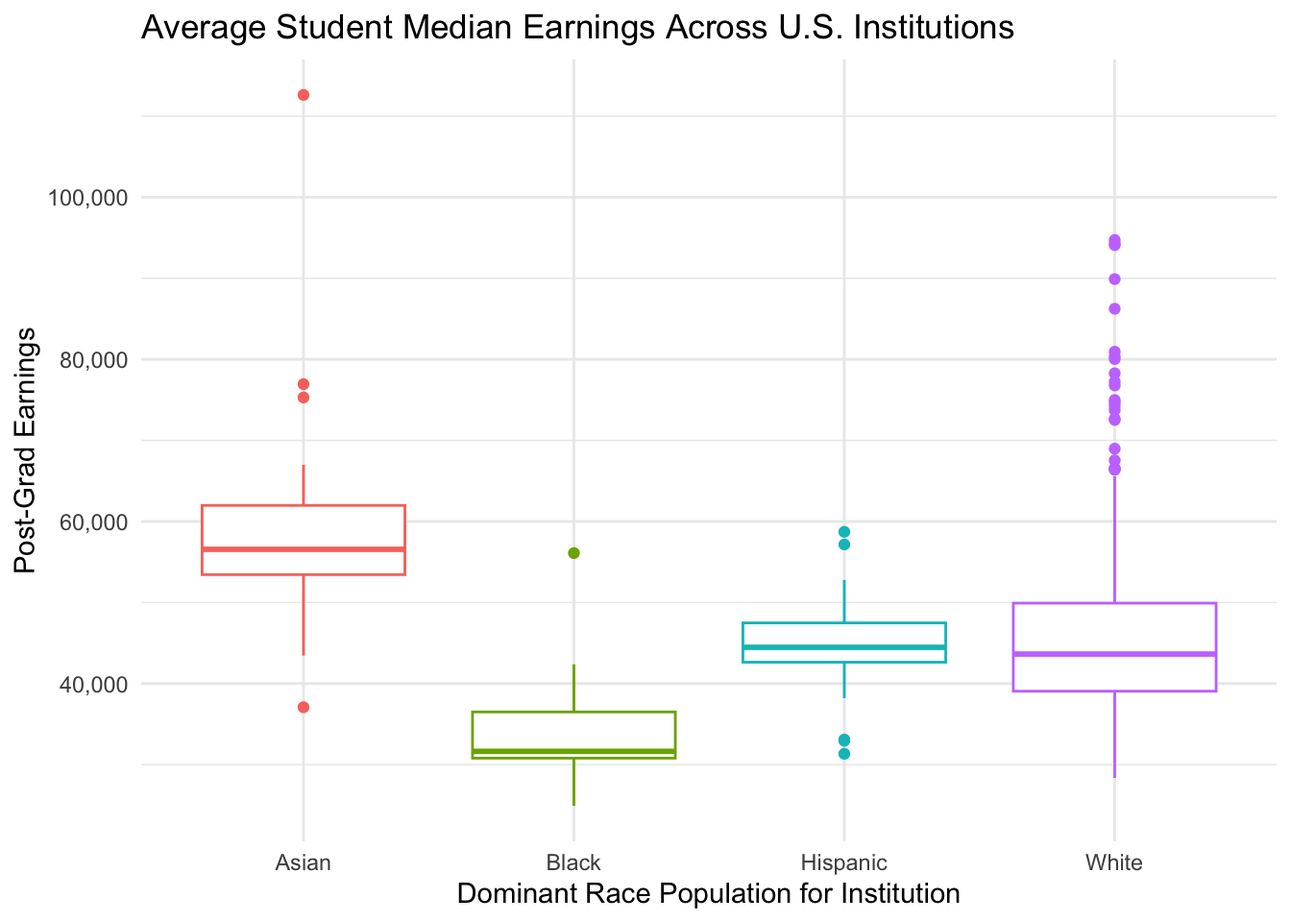
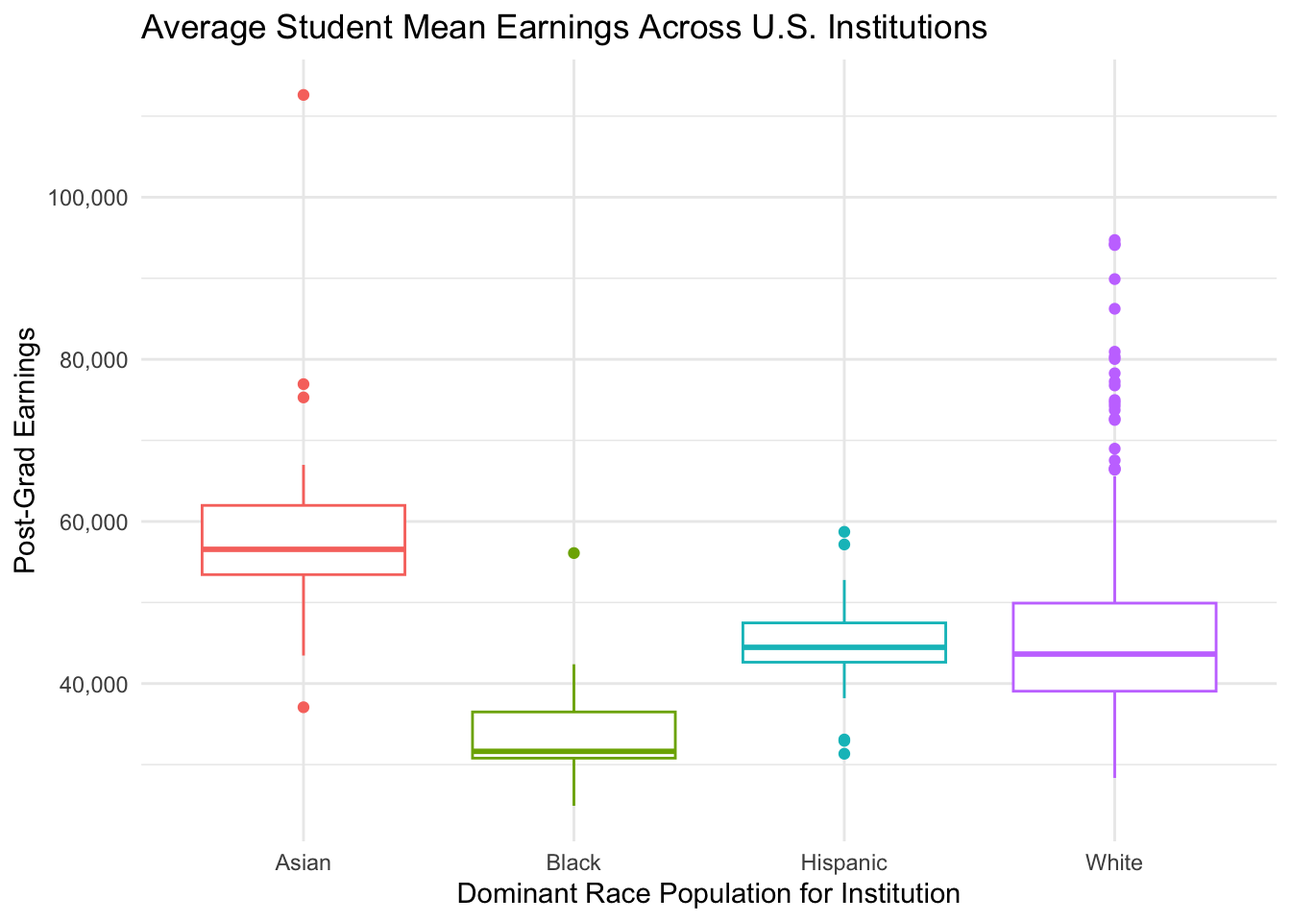
Built site for gh-pages

Changed region(s): [[0.3438, 0.0, 0.7812, 0.0625]]

diff --git a/big_picture.html b/big_picture.html
@@ -127,22 +127,14 @@ ul.task-list li input[type="checkbox"] {
    
   <ul>
   <li><a href="#introduction" id="toc-introduction" class="nav-link active" data-scroll-target="#introduction">Introduction</a></li>
-  <li><a href="#getting-started-does-racial-disparity-even-exist" id="toc-getting-started-does-racial-disparity-even-exist" class="nav-link" data-scroll-target="#getting-started-does-racial-disparity-even-exist">Getting Started: Does Racial Disparity Even Exist?</a></li>
+  <li><a href="#so-whats-the-big-deal-does-racial-disparity-even-exist" id="toc-so-whats-the-big-deal-does-racial-disparity-even-exist" class="nav-link" data-scroll-target="#so-whats-the-big-deal-does-racial-disparity-even-exist">So What’s the Big Deal: Does Racial Disparity Even Exist?</a></li>
   <li><a href="#thesis-statement" id="toc-thesis-statement" class="nav-link" data-scroll-target="#thesis-statement">Thesis Statement</a>
   <ul class="collapse">
-  <li><a href="#i.-socioeconomically-diverse-institutions-have-lower-median-earnings" id="toc-i.-socioeconomically-diverse-institutions-have-lower-median-earnings" class="nav-link" data-scroll-target="#i.-socioeconomically-diverse-institutions-have-lower-median-earnings">I. Socioeconomically Diverse Institutions Have Lower Median Earnings</a></li>
+  <li><a href="#i.-socioeconomically-diverse-institutions-have-lower-mean-earnings" id="toc-i.-socioeconomically-diverse-institutions-have-lower-mean-earnings" class="nav-link" data-scroll-target="#i.-socioeconomically-diverse-institutions-have-lower-mean-earnings">I. Socioeconomically Diverse Institutions Have Lower Mean Earnings</a></li>
   <li><a href="#ii.-institutions-with-majority-minority-student-populations-have-lower-post-grad-earnings" id="toc-ii.-institutions-with-majority-minority-student-populations-have-lower-post-grad-earnings" class="nav-link" data-scroll-target="#ii.-institutions-with-majority-minority-student-populations-have-lower-post-grad-earnings">II. Institutions with Majority-Minority Student Populations Have Lower Post-Grad Earnings</a></li>
   </ul></li>
-  <li><a href="#shinylive-interactive-map" id="toc-shinylive-interactive-map" class="nav-link" data-scroll-target="#shinylive-interactive-map">ShinyLive Interactive map</a></li>
-  <li><a href="#logic-behind-the-earnings-map" id="toc-logic-behind-the-earnings-map" class="nav-link" data-scroll-target="#logic-behind-the-earnings-map">Logic behind the earnings map:</a></li>
-  <li><a href="#key-insights-of-the-map" id="toc-key-insights-of-the-map" class="nav-link" data-scroll-target="#key-insights-of-the-map">Key insights of the map</a></li>
+  <li><a href="#post-college-earnings-across-the-united-states" id="toc-post-college-earnings-across-the-united-states" class="nav-link" data-scroll-target="#post-college-earnings-across-the-united-states">Post-College Earnings Across the United States</a></li>
   <li><a href="#conclusion-unveiling-disparity-in-higher-education-metrics" id="toc-conclusion-unveiling-disparity-in-higher-education-metrics" class="nav-link" data-scroll-target="#conclusion-unveiling-disparity-in-higher-education-metrics">Conclusion: Unveiling Disparity in Higher Education Metrics</a></li>
-  <li><a href="#rubric-on-this-page" id="toc-rubric-on-this-page" class="nav-link" data-scroll-target="#rubric-on-this-page">Rubric: On this page</a></li>
-  <li><a href="#rubric-other-components" id="toc-rubric-other-components" class="nav-link" data-scroll-target="#rubric-other-components">Rubric: Other components</a>
-  <ul class="collapse">
-  <li><a href="#video-recording" id="toc-video-recording" class="nav-link" data-scroll-target="#video-recording">Video Recording</a></li>
-  <li><a href="#rest-of-the-site" id="toc-rest-of-the-site" class="nav-link" data-scroll-target="#rest-of-the-site">Rest of the Site</a></li>
-  </ul></li>
   </ul>
 </nav>
     </div>
@@ -185,12 +177,12 @@ ul.task-list li input[type="checkbox"] {
 <p><strong>THE AMERICAN DREAM</strong>: the shiny ideal that America is the land of opportunity and social mobility, and every person, regardless of their race, gender, and socioeconomic status, has the opportunity to climb the social ladder and succeed with enough hard work and determination. Perpetuating the idea of a colorblind society, perhaps any skew in data - certain racial groups having higher incarceration rates or higher poverty levels - can simply be attributed to just that: <em>they didn’t work hard enough</em>. They were given an opportunity for social mobility and failed to seize it. We must ask ourselves: Can anyone who works hard become successful? Does the American Dream even exist, or was it never real to begin with?</p>
 <section id="why-is-analyzing-higher-education-data-important" class="level4">
 <h4 class="anchored" data-anchor-id="why-is-analyzing-higher-education-data-important">Why is Analyzing Higher Education Data Important?</h4>
-<p>Analyzing higher education data provides valuable insight into a population of students who have opted to pursue higher education, identifying patterns that inform if there exists a fundamental difference in later income and social mobility and status based upon characteristics such as their race and socioeconomic status. This data can further inform if there perhaps lie varying degrees of difficulty to succeed financially for certain groups over other groups, leading back to the question: Does the American Dream in higher education exist?</p>
+<p>Analyzing higher education data provides valuable insight into a population of students who have opted to pursue higher education, identifying patterns that inform if there exists a fundamental difference in income and social status based upon student characteristics, such as race and pre-college income bracket. This data can further inform if there perhaps lie varying degrees of difficulty to succeed financially for certain groups over other groups, leading back to the question: Does the American Dream in higher education exist?</p>
 <p><em>Note: “Difficulty” itself is a subjective term, as is determining “working hard” as a quantitative measure. The following analysis does not serve to quantitatively define these terms, but does observe that students pursuing a higher degree have put in a baseline level of hard work to which questions arise over if this serves as a predictor to future income/socioeconomic status level.</em></p>
 </section>
 </section>
-<section id="getting-started-does-racial-disparity-even-exist" class="level2">
-<h2 class="anchored" data-anchor-id="getting-started-does-racial-disparity-even-exist">Getting Started: Does Racial Disparity Even Exist?</h2>
+<section id="so-whats-the-big-deal-does-racial-disparity-even-exist" class="level2">
+<h2 class="anchored" data-anchor-id="so-whats-the-big-deal-does-racial-disparity-even-exist">So What’s the Big Deal: Does Racial Disparity Even Exist?</h2>
 <div class="cell">
 <div class="cell-output-display">
 <div>
@@ -206,9 +198,9 @@ ul.task-list li input[type="checkbox"] {
 <section id="thesis-statement" class="level2">
 <h2 class="anchored" data-anchor-id="thesis-statement">Thesis Statement</h2>
 <p><em>The Earnings Gap: Analyzing Racial Disparity in Post-Graduation Wages Across U.S. Colleges</em></p>
-<p>Post-Graduation earnings across the U.S. colleges are correlated to student demographic factors, specifically socioeconomic status and race. In particular, students from lower income brackets have lower post-graduation earnings than students from high income brackets <em>(1)</em>. Further, Black and Hispanic students have lower post-graduation earnings than their White and Asian counterparts <em>(2)</em>.</p>
-<section id="i.-socioeconomically-diverse-institutions-have-lower-median-earnings" class="level3">
-<h3 class="anchored" data-anchor-id="i.-socioeconomically-diverse-institutions-have-lower-median-earnings">I. Socioeconomically Diverse Institutions Have Lower Median Earnings</h3>
+<p>Post-Graduation earnings across the U.S. colleges are correlated to student demographic factors, specifically socioeconomic status and race. In particular, students from lower income brackets have lower post-graduation earnings than students from high income brackets <em>(I)</em>. Further, Black and Hispanic students have lower post-graduation earnings than their White and Asian counterparts <em>(II)</em>.</p>
+<section id="i.-socioeconomically-diverse-institutions-have-lower-mean-earnings" class="level3">
+<h3 class="anchored" data-anchor-id="i.-socioeconomically-diverse-institutions-have-lower-mean-earnings">I. Socioeconomically Diverse Institutions Have Lower Mean Earnings</h3>
 <section id="post-grad-earnings-based-on-the-percent-of-students-with-pell-grants" class="level4">
 <h4 class="anchored" data-anchor-id="post-grad-earnings-based-on-the-percent-of-students-with-pell-grants">Post Grad Earnings based on the Percent of Students with Pell Grants</h4>
 <div class="cell">
@@ -220,8 +212,8 @@ ul.task-list li input[type="checkbox"] {
 </div>
 </div>
 </div>
-<p><em>Percent Pell Grant and Socioeconomic diversity:</em> Defined in the data set as the share of degree/certificate-seeking undergraduate students who received Pell Grants in a given year. <strong>Pell Grants</strong> are awarded only to undergraduate students who display financial need, and unlike a loan, it does not have to be repaid. This serves as an important measure of the access an institution provides to low-income students, thereby an indicator of an institution’s socioeconomic diversity. Read more about Pell Grants <a href="https://studentaid.gov/understand-aid/types/grants/pell">here</a>.</p>
-<p>The bar graph conveys the following idea: Institutions who support more lower-income students, albeit more socioeconomically diverse student bodies, have lower post-graduation earnings. This provides evidence that student affluence level prior to college serves as predictor for post-grad earnings.</p>
+<p><em>Percent Pell Grant and Socioeconomic diversity:</em> Defined in the data set as the share of degree/certificate-seeking undergraduate students who received Pell Grants in a given year. <strong>Pell Grants</strong> are awarded only to undergraduate students who display significent financial need and, unlike a loan, does not have to be repaid. This serves as an important measure of the access an institution provides to low-income students, thereby an indicator of an institution’s socioeconomic diversity. Read more about Pell Grants <a href="https://studentaid.gov/understand-aid/types/grants/pell">here</a>.</p>
+<p>The bar graph conveys the following idea: Institutions who support more lower-income students, albeit more socioeconomically diverse student bodies, have lower post-graduation earnings. This provides evidence that student affluence level prior to college is related to post-grad earnings.</p>
 </section>
 </section>
 <section id="ii.-institutions-with-majority-minority-student-populations-have-lower-post-grad-earnings" class="level3">
@@ -237,20 +229,13 @@ ul.task-list li input[type="checkbox"] {
 </div>
 </div>
 </div>
-<p><em>Average Earnings After College:</em> Defined in the dataset as the mean earnings for students at each institution, each year starting 6 years after a student enrolls in college, up to 10 years after the student enrolls. Enrollment dates are estimated based on FAFSA self-reporting. This data analysis takes the mean of all mean earnings from 6 to 10 years to provide a centralized value for student earnings from 6-10 years after enrollment at each institution.</p>
-<p>The plot supports the following idea: There is a difference in post-grad earnings for schools based on their dominant race student population: Earnings Distribution:</p>
-<ul>
-<li><strong>Asian</strong>: The median post-grad earnings for institutions where Asians are the dominant population appear to be around 60,000. The interquartile range (IQR) spans from approximately 50,000 to 70,000, with a few outliers extending up to 100,000 and below 40,000.</li>
-<li><strong>Black</strong>: Institutions with a dominant Black population show the lowest median earnings, around 40,000. The IQR is quite narrow, suggesting less variability in earnings, with outliers extending slightly above 60,000 and below 20,000.</li>
-<li><strong>Hispanic</strong>: Median earnings for Hispanic-dominant institutions are around 50,000. The IQR is moderate, spanning from about 40,000 to 60,000, with fewer extreme outliers compared to other groups.</li>
-<li><strong>White</strong> Institutions with a dominant White population have a median earnings level similar to Asian-dominant institutions, around 60,000. The IQR is wider, indicating more variability in earnings, with several outliers extending above 100,000.</li>
-</ul>
-<p>The data suggests that there are significant disparities in post-graduate earnings based on the dominant race population of institutions. Institutions with dominant Asian or White populations tend to have higher median earnings compared to those with dominant Black or Hispanic populations.</p>
+<p><em>Average Earnings After College:</em> Defined in the dataset as the mean earnings for students at each institution, each year starting 6 years after a student enrolls in college, up to 10 years after the student enrolls. Enrollment dates are estimated based on FAFSA self-reporting. This data analysis takes the average of all mean earnings from 6 to 10 years to provide a centralized value for student earnings from 6-10 years after enrollment at each institution.</p>
+<p>The plot supports the following idea: There is a difference in post-grad earnings for schools based on their dominant race student population. Specifically, institutions with dominant Asian or White populations tend to have higher median earnings compared to those with dominant Black or Hispanic populations.</p>
 </section>
 </section>
 </section>
-<section id="shinylive-interactive-map" class="level2">
-<h2 class="anchored" data-anchor-id="shinylive-interactive-map">ShinyLive Interactive map</h2>
+<section id="post-college-earnings-across-the-united-states" class="level2">
+<h2 class="anchored" data-anchor-id="post-college-earnings-across-the-united-states">Post-College Earnings Across the United States</h2>
 <pre class="shinylive-r" data-engine="r"><code>#| '!! shinylive warning !!': |
 #|   shinylive does not work in self-contained HTML documents.
 #|   Please set `embed-resources: false` in your metadata.
@@ -313,10 +298,10 @@ earnings_map_data &lt;- left_join(us_map, state_earnings_summary, by = "region")
 
 # UI definition
 ui &lt;- fluidPage(
-  titlePanel("Interactive Average Earnings by Race Across States"),
+  titlePanel("Mean Earnings by Race Across States"),
   sidebarLayout(
     sidebarPanel(
-      helpText("Select a race to view its average earnings across U.S. states."),
+      helpText("Select a racial group to view their mean earnings across the United States"),
       selectInput(
         "race_variable",
         "Select Race to Display on the Map",
@@ -366,40 +351,39 @@ server &lt;- function(input, output, session) {
       )
   })
   
-  # Display hover information
-  output$hover_text &lt;- renderText({
-    hover &lt;- input$hover_info
-    if (is.null(hover)) return("Hover over a state to see its average earnings breakdown.")
-    
-    # Find the closest region to the mouse pointer
-    state_hovered &lt;- earnings_map_data %&gt;%
-      filter(
-        long &gt;= hover$x - 0.1 &amp; long &lt;= hover$x + 0.1,
-        lat &gt;= hover$y - 0.1 &amp; lat &lt;= hover$y + 0.1
-      ) %&gt;%
-      distinct(region, Avg_Earn_White, Avg_Earn_Black, Avg_Earn_Hispanic, Avg_Earn_Asian) %&gt;%
-      head(1)
-    
-    if (nrow(state_hovered) == 0) return("Hover over a state to see its average earnings breakdown.")
-    
-    state_info &lt;- state_hovered[1, ]
-    
-    paste0(
-      "State: ", tools::toTitleCase(state_info$region), "\n",
-      "Avg Earnings - White: $", formatC(state_info$Avg_Earn_White, format = "f", big.mark = ",", digits = 0), "\n",
-      "Avg Earnings - Black: $", formatC(state_info$Avg_Earn_Black, format = "f", big.mark = ",", digits = 0), "\n",
-      "Avg Earnings - Hispanic: $", formatC(state_info$Avg_Earn_Hispanic, format = "f", big.mark = ",", digits = 0), "\n",
-      "Avg Earnings - Asian: $", formatC(state_info$Avg_Earn_Asian, format = "f", big.mark = ",", digits = 0)
-    )
-  })
+  # # Display hover information
+  # output$hover_text &lt;- renderText({
+  #   hover &lt;- input$hover_info
+  #   if (is.null(hover)) return("Hover over a state to see its average earnings breakdown.")
+  #   
+  #   # Find the closest region to the mouse pointer
+  #   state_hovered &lt;- earnings_map_data %&gt;%
+  #     filter(
+  #       long &gt;= hover$x - 0.1 &amp; long &lt;= hover$x + 0.1,
+  #       lat &gt;= hover$y - 0.1 &amp; lat &lt;= hover$y + 0.1
+  #     ) %&gt;%
+  #     distinct(region, Avg_Earn_White, Avg_Earn_Black, Avg_Earn_Hispanic, Avg_Earn_Asian) %&gt;%
+  #     head(1)
+  #   
+  #   if (nrow(state_hovered) == 0) return("Hover over a state to see its average earnings breakdown.")
+  #   
+  #   state_info &lt;- state_hovered[1, ]
+  #   
+  #   paste0(
+  #     "State: ", tools::toTitleCase(state_info$region), "\n",
+  #     "Avg Earnings - White: $", formatC(state_info$Avg_Earn_White, format = "f", big.mark = ",", digits = 0), "\n",
+  #     "Avg Earnings - Black: $", formatC(state_info$Avg_Earn_Black, format = "f", big.mark = ",", digits = 0), "\n",
+  #     "Avg Earnings - Hispanic: $", formatC(state_info$Avg_Earn_Hispanic, format = "f", big.mark = ",", digits = 0), "\n",
+  #     "Avg Earnings - Asian: $", formatC(state_info$Avg_Earn_Asian, format = "f", big.mark = ",", digits = 0)
+  #  )
+  #})
 }
 
 # Run the application
 shinyApp(ui = ui, server = server)</code></pre>
-</section>
-<section id="logic-behind-the-earnings-map" class="level2">
-<h2 class="anchored" data-anchor-id="logic-behind-the-earnings-map">Logic behind the earnings map:</h2>
-<p>The dataset education_cohort_data_cleaned.rds contains:</p>
+<section id="logic-behind-the-earnings-map" class="level4">
+<h4 class="anchored" data-anchor-id="logic-behind-the-earnings-map">Logic behind the Earnings Map</h4>
+<p>The dataset <code>education_cohort_data_cleaned.rds</code> contains:</p>
 <pre><code>•   Population Data (Pop): Total number of students at an institution.
 •   Racial Composition: Proportion of students from different races, such as:
 •   Perc_Undergrad_White
@@ -407,69 +391,37 @@ shinyApp(ui = ui, server = server)</code></pre>
 •   Perc_Undergrad_Hispanic
 •   Perc_Undergrad_Asian
 •   Perc_Two_Or_More_Races
-•   Average Earnings (Avg_Mean_earning): The average income for students after graduation of the school</code></pre>
-<p>The dataset aggregates data for different institutions across U.S. states.</p>
-<p>To calculate the earnings for each race, I used weighted averages:</p>
+•   Average Earnings (Avg_Mean_earning): The mean income for students 6-10 years after enrollment at the institution</code></pre>
+<p>Earnings for each race were calculated using weighted averages:</p>
 <p>Weighted Earnings for Race} = {Population} * {Proportion of Race} * {Average Earnings}</p>
-<p>The next step was to summarize the data at the state level:</p>
-<pre><code>1.  Sum the Weighted Earnings for each race.
-2.  Sum the Weighted Population for each race.
-3.  Compute the Average Earnings for each race in a state:</code></pre>
-<p>{Average Earnings} = {Sum of Weighted Earnings} / {Sum of Weighted Population}</p>
+<p>Data were summarized at the state level:</p>
+<pre><code>1. Sum the Weighted Earnings for each race.
+2. Sum the Weighted Population for each race.
+3. Compute the Average Earnings for each race in a state: {Average Earnings} = {Sum of Weighted Earnings} / {Sum of Weighted Population}</code></pre>
 </section>
-<section id="key-insights-of-the-map" class="level2">
-<h2 class="anchored" data-anchor-id="key-insights-of-the-map">Key insights of the map</h2>
-<pre><code>1.  Racial Disparities Exist:
-•   White and Asian graduates generally earn more on average compared to Black and Hispanic graduates.
-•   This suggests systemic disparities in earnings that may reflect broader socioeconomic and racial inequities.
-2.  Geographic Patterns:
-•   Earnings vary significantly across U.S. regions:
-•   States in the Northeast and West Coast generally have higher earnings.
-•   The South and parts of the Midwest consistently show lower earnings across all races.</code></pre>
+<section id="key-insights" class="level4">
+<h4 class="anchored" data-anchor-id="key-insights">Key Insights</h4>
+<ol type="1">
+<li>Racial Disparity in Mean Earnings:</li>
+</ol>
+<ul>
+<li>White and Asian students earn higher post-college wages, on average, compared to their Black and Hispanic counterparts</li>
+<li>This suggests that there exists racial disparity in post-college earnings</li>
+</ul>
+<ol start="2" type="1">
+<li>Geographic Patterns:</li>
+</ol>
+<ul>
+<li>Earnings vary significantly across U.S. regions</li>
+<li>States in the Northeast and West Coast generally have higher earnings, while the South and parts of the Midwest consistently show lower earnings across all races</li>
+</ul>
+</section>
 </section>
 <section id="conclusion-unveiling-disparity-in-higher-education-metrics" class="level2">
 <h2 class="anchored" data-anchor-id="conclusion-unveiling-disparity-in-higher-education-metrics">Conclusion: Unveiling Disparity in Higher Education Metrics</h2>
 <p>The data depicted in the graphs and map reveal a clear pattern: the mean earnings post-graduation vary significantly by both racial demographics and socioeconomic status. And although it cannot be conclusively drawn that the American Dream imposes a false idealistic reality that hard work can automatically be translated to success for any American irregardless of race and socioeconomic status, it is important to note this discrepancy: <strong>certain racial groups and people of lower income brackets have lower mean earnings after enrollment in higher education.</strong> Simply “buying into” the American Dream can be a comforting notion, but it can also perpetuate harmful stereotypes that people of lower socioeconomic status <em>deserve it</em> because they simply didn’t work as hard. As we move forward, understanding the interplay between race, affluence, and post-graduation earnings can serve as important tool to tackling racial and socioeconomic divide.</p>
-<hr>
-</section>
-<section id="rubric-on-this-page" class="level2">
-<h2 class="anchored" data-anchor-id="rubric-on-this-page">Rubric: On this page</h2>
-<p>You will</p>
-<ul>
-<li>Title
-<ul>
-<li>Your big picture page should have a creative/click-bait-y title/headline that provides a hint about your thesis.</li>
-</ul></li>
-<li>Clarity of Explanation
-<ul>
-<li>You should have a clear thesis/goal for this page. What are you trying to show? Make sure that you explain your analysis in detail but don’t go into top much mathematics or statistics. The audience for this page is the general public (to the extent possible). Your thesis should be a statement, not a question.</li>
-<li>Each figure should be very polished and also not too complicated. There should be a clear interpretation of the figure so the figure has a clear purpose. Even something like a histogram can be difficult to interpret for non-experts.</li>
-</ul></li>
-<li>Creativity
-<ul>
-<li>Do your best to make things interesting. Think of a story. Think of how each part of your analysis supports the previous part or provides a different perspective.</li>
-</ul></li>
-<li>Interactive component
-<ul>
-<li>Quality and ease of use of the interactive components. Is it clear what can be explored using your interactive components? Does it enhance and reinforce your conclusions?</li>
-</ul></li>
-<li>This page should be self-contained.</li>
-</ul>
-<p><strong>Note</strong>: This page should have no code visible, i.e.&nbsp;use <code>#| echo: FALSE</code>.</p>
-</section>
-<section id="rubric-other-components" class="level2">
-<h2 class="anchored" data-anchor-id="rubric-other-components">Rubric: Other components</h2>
-<section id="video-recording" class="level3">
-<h3 class="anchored" data-anchor-id="video-recording">Video Recording</h3>
-<p>Make a video recording (probably using Zoom) demonstrating your interactive components. You should provide a quick explanation of your data and demonstrate some of the conclusions from your EDA. This video should be no longer than 4 minutes. Include a link to your video (and password if needed) in your README.md file on your Github repository. You are not required to provide a link on the website. This can be presented by any subset of the team members.</p>
-</section>
-<section id="rest-of-the-site" class="level3">
-<h3 class="anchored" data-anchor-id="rest-of-the-site">Rest of the Site</h3>
-<p>Finally, here are important things to keep in mind for the rest of the site.</p>
-<p>The main title of your page is informative. Each post has an author/description/informative title. All lab required posts are present. Each page (including the home page) has a nice featured image associated with it. Your about page is up to date and clean. You have removed the generic posts from the initial site template.</p>
 
 
-</section>
 </section>
 
 </main> <!-- /main -->

diff --git a/analysis.html b/analysis.html
@@ -141,9 +141,8 @@ ul.task-list li input[type="checkbox"] {
   <li><a href="#limitations" id="toc-limitations" class="nav-link" data-scroll-target="#limitations">Limitations:</a></li>
   <li><a href="#conclusion" id="toc-conclusion" class="nav-link" data-scroll-target="#conclusion">Conclusion</a>
   <ul class="collapse">
-  <li><a href="#example-of-loading-data" id="toc-example-of-loading-data" class="nav-link" data-scroll-target="#example-of-loading-data">Example of loading data</a></li>
-  <li><a href="#note-on-attribution" id="toc-note-on-attribution" class="nav-link" data-scroll-target="#note-on-attribution">Note on Attribution</a></li>
-  <li><a href="#rubric-on-this-page" id="toc-rubric-on-this-page" class="nav-link" data-scroll-target="#rubric-on-this-page">Rubric: On this page</a></li>
+  <li><a href="#a-second-analysis-what-does-the-sat-really-test" id="toc-a-second-analysis-what-does-the-sat-really-test" class="nav-link" data-scroll-target="#a-second-analysis-what-does-the-sat-really-test">A Second Analysis: What does the SAT really test?</a></li>
+  <li><a href="#background-and-purpose" id="toc-background-and-purpose" class="nav-link" data-scroll-target="#background-and-purpose">Background and Purpose</a></li>
   </ul></li>
   </ul>
 </nav>
@@ -180,7 +179,15 @@ ul.task-list li input[type="checkbox"] {
 <section id="introduction" class="level2">
 <h2 class="anchored" data-anchor-id="introduction">Introduction</h2>
 <p>Racial disparities in post-graduation earnings could reflect educational and economic inequality in the United States. Despite the fact that an increasing number of minority students enroll in college, huge gaps still exist in post-graduation outcomes. Students of color like Black and Hispanic, often earn less than White students and Asian Students. How racial composition and socioeconomic factors interact to shape post-graduation earnings are explored in this analysis, which will reveal how inequities persist beyond college.</p>
-<p>Here are the variables from the dataset that are going to be used in analysis: Every school has a different number of students, but students from various races are counted in percentage in the original dataset. To ensure the consistency of the data, using weighted average earnings is necessary. - Num_White_Students: Number of White students in school. - Num_Black_Students: Number of Black students in school. - Num_Hispanic_Students: Number of Hispanic students in school. - Num_Asian_Students: Number of Asian students in school. - Social_Econ_Div:</p>
+<p>Here are the variables from the dataset that are going to be used in analysis:</p>
+<p>Every school has a different number of students, but students from various races are counted in percentage in the original dataset. To ensure the consistency of the data, using weighted average earnings is necessary.</p>
+<ul>
+<li>Num_White_Students: Number of White students in school.</li>
+<li>Num_Black_Students: Number of Black students in school.</li>
+<li>Num_Hispanic_Students: Number of Hispanic students in school.</li>
+<li>Num_Asian_Students: Number of Asian students in school.</li>
+<li>Social_Econ_Div:</li>
+</ul>
 </section>
 <section id="motivation-behind-data-analysis" class="level2">
 <h2 class="anchored" data-anchor-id="motivation-behind-data-analysis">Motivation Behind Data Analysis</h2>
@@ -362,66 +369,14 @@ F-statistic and p-value:</code></pre>
 <p>The initial model, which excludes socioeconomic diversity, reveals significant disparities in post-graduation earnings across racial groups. The coefficients suggest that, holding other factors constant, schools with higher numbers of Black and Hispanic students are associated with lower mean earnings, while schools with more Asian students show a strong positive association with earnings. Notably, the p-values for these coefficients indicate statistical significance, reinforcing that these disparities are unlikely to be due to random chance.</p>
 <p>However, the relatively low R-squared value (0.14) in this model suggests that racial composition alone explains only a small portion of the variability in average earnings. This highlights that while racial disparities exist, other unobserved factors—such as socioeconomic diversity, school resources, or geographic differences—are likely influencing post-graduation outcomes. The negative coefficients for Black and Hispanic student numbers underscore systemic inequalities that may be linked to broader social and institutional challenges, which are not accounted for in this model.</p>
 <p>The results of the second model demonstrate that socioeconomic diversity plays a crucial role in explaining variations in post-graduation earnings, significantly improving the model’s explanatory power when included. Its addition, however, highlights the challenge of multicollinearity and the redistribution of explanatory influence among variables, particularly racial composition. While the model provides valuable insights, further refinements—including additional variables and consideration of non-linear relationships—are necessary to fully capture the determinants of earnings disparities across different demographics.</p>
-<p>#We describe here our detailed data analysis. This page will provide an overview of what questions you addressed, illustrations of relevant aspects of the data with tables and figures, and a statistical model that attempts to answer part of the question. You’ll also reflect on next steps and further analysis.</p>
-<p>#The audience for this page is someone like your class mates, so you can expect that they have some level of statistical and quantitative sophistication and understand ideas like linear and logistic regression, coefficients, confidence intervals, overfitting, etc.</p>
-<p>#While the exact number of figures and tables will vary and depend on your analysis, you should target around 5 to 6. An overly long analysis could lead to losing points.If you want you can link back to your blog posts or create separate pages with more details.</p>
-<p>#The style of this paper should aim to be that of an academic paper. #I don’t expect this to be of publication quality but you should keep that aim in mind. #Avoid using “we” too frequently, for example “We also found that …”. Describe your methodology and your findings but don’t describe your whole process.</p>
-<section id="example-of-loading-data" class="level3">
-<h3 class="anchored" data-anchor-id="example-of-loading-data">Example of loading data</h3>
-<p>The code below shows an example of loading the loan refusal data set (which you should delete at some point).</p>
-<div class="cell">
-<div class="cell-output cell-output-stdout">
-<pre><code>[1] "/Users/sevenli/Desktop/College/Junior 1st/MA415/Final_project"</code></pre>
-</div>
-</div>
+<p><a href="images/NCES.png"></a></p>
+<section id="a-second-analysis-what-does-the-sat-really-test" class="level2">
+<h2 class="anchored" data-anchor-id="a-second-analysis-what-does-the-sat-really-test">A Second Analysis: What does the SAT really test?</h2>
+<p>The data is sourced from the National Center of Education Statistics (NCES). It summarizes data from more than 25 surveys administered by NCES and other government agencies. The primary responsibility of Annual Reports is to produce the congressionally mandated <em>Condition of Education</em> to display data about various levels of education and labor force outcomes in the United States. It provides easy access to an array of education statistics, informing national policy-making decisions, the news media, and the general public.</p>
+<p><em>The dataset can be accessed using the following <a href="https://nces.ed.gov/surveys/annualreports/">link</a>.</em></p>
 </section>
-<section id="note-on-attribution" class="level2">
-<h2 class="anchored" data-anchor-id="note-on-attribution">Note on Attribution</h2>
-<p>In general, you should try to provide links to relevant resources, especially those that helped you. You don’t have to link to every StackOverflow post you used but if there are explainers on aspects of the data or specific models that you found helpful, try to link to those. Also, try to link to other sources that might support (or refute) your analysis. These can just be regular hyperlinks. You don’t need a formal citation.</p>
-<p>If you are directly quoting from a source, please make that clear. You can show quotes using <code>&gt;</code> like this</p>
-<pre><code>&gt; To be or not to be.</code></pre>
-<blockquote class="blockquote">
-<p>To be or not to be.</p>
-</blockquote>
-<hr>
-</section>
-<section id="rubric-on-this-page" class="level2">
-<h2 class="anchored" data-anchor-id="rubric-on-this-page">Rubric: On this page</h2>
-<p>You will</p>
-<ul>
-<li>Introduce what motivates your Data Analysis (DA)
-<ul>
-<li>Which variables and relationships are you most interested in?</li>
-<li>What questions are you interested in answering?</li>
-<li>Provide context for the rest of the page. This will include figures/tables that illustrate aspects of the data of your question.</li>
-</ul></li>
-<li>Modeling and Inference
-<ul>
-<li>The page will include some kind of formal statistical model. This could be a linear regression, logistic regression, or another modeling framework.</li>
-<li>Explain the ideas and techniques you used to choose the predictors for your model. (Think about including interaction terms and other transformations of your variables.)</li>
-<li>Describe the results of your modelling and make sure to give a sense of the uncertainty in your estimates and conclusions.</li>
-</ul></li>
-<li>Explain the flaws and limitations of your analysis
-<ul>
-<li>Are there some assumptions that you needed to make that might not hold? Is there other data that would help to answer your questions?</li>
-</ul></li>
-<li>Clarity Figures
-<ul>
-<li>Are your figures/tables/results easy to read, informative, without problems like overplotting, hard-to-read labels, etc?</li>
-<li>Each figure should provide a key insight. Too many figures or other data summaries can detract from this. (While not a hard limit, around 5 total figures is probably a good target.)</li>
-<li>Default <code>lm</code> output and plots are typically not acceptable.</li>
-</ul></li>
-<li>Clarity of Explanations
-<ul>
-<li>How well do you explain each figure/result?</li>
-<li>Do you provide interpretations that suggest further analysis or explanations for observed phenomenon?</li>
-</ul></li>
-<li>Organization and cleanliness.
-<ul>
-<li>Make sure to remove excessive warnings, hide most or all code, organize with sections or multiple pages, use bullets, etc.</li>
-<li>This page should be self-contained, i.e.&nbsp;provide a description of the relevant data.</li>
-</ul></li>
-</ul>
+<section id="background-and-purpose" class="level2">
+<h2 class="anchored" data-anchor-id="background-and-purpose">Background and Purpose</h2>
 
 
 </section>

diff --git a/data.html b/data.html
@@ -160,8 +160,6 @@ pre > code.sourceCode > span > a:first-child::before { text-decoration: underlin
   <li><a href="#initial-analysis-on-flaws-and-limitations" id="toc-initial-analysis-on-flaws-and-limitations" class="nav-link" data-scroll-target="#initial-analysis-on-flaws-and-limitations">Initial Analysis on Flaws and Limitations</a></li>
   <li><a href="#data-files-and-variable-overview" id="toc-data-files-and-variable-overview" class="nav-link" data-scroll-target="#data-files-and-variable-overview">Data Files and Variable Overview</a></li>
   <li><a href="#data-cleaning-process" id="toc-data-cleaning-process" class="nav-link" data-scroll-target="#data-cleaning-process">Data Cleaning Process</a></li>
-  <li><a href="#a-second-analysis-what-does-the-sat-really-test" id="toc-a-second-analysis-what-does-the-sat-really-test" class="nav-link" data-scroll-target="#a-second-analysis-what-does-the-sat-really-test">A Second Analysis: What does the SAT really test?</a></li>
-  <li><a href="#background-and-purpose-1" id="toc-background-and-purpose-1" class="nav-link" data-scroll-target="#background-and-purpose-1">Background and Purpose</a></li>
   </ul>
 </nav>
     </div>
@@ -305,18 +303,9 @@ pre > code.sourceCode > span > a:first-child::before { text-decoration: underlin
 <span id="cb4-21"><a href="#cb4-21" aria-hidden="true" tabindex="-1"></a>  ...</span>
 <span id="cb4-22"><a href="#cb4-22" aria-hidden="true" tabindex="-1"></a>)</span></code><button title="Copy to Clipboard" class="code-copy-button"><i class="bi"></i></button></pre></div>
 </div>
-<p><img src="images/NCES.png" class="img-fluid"></p>
-</section>
-</section>
-<section id="a-second-analysis-what-does-the-sat-really-test" class="level2">
-<h2 class="anchored" data-anchor-id="a-second-analysis-what-does-the-sat-really-test">A Second Analysis: What does the SAT really test?</h2>
-<p>The data is sourced from the National Center of Education Statistics (NCES). It summarizes data from more than 25 surveys administered by NCES and other government agencies. The primary responsibility of Annual Reports is to produce the congressionally mandated <em>Condition of Education</em> to display data about various levels of education and labor force outcomes in the United States. It provides easy access to an array of education statistics, informing national policy-making decisions, the news media, and the general public.</p>
-<p><em>The dataset can be accessed using the following <a href="https://nces.ed.gov/surveys/annualreports/">link</a>.</em></p>
-</section>
-<section id="background-and-purpose-1" class="level2">
-<h2 class="anchored" data-anchor-id="background-and-purpose-1">Background and Purpose</h2>
 
 
+</section>
 </section>
 
 </main> <!-- /main -->
